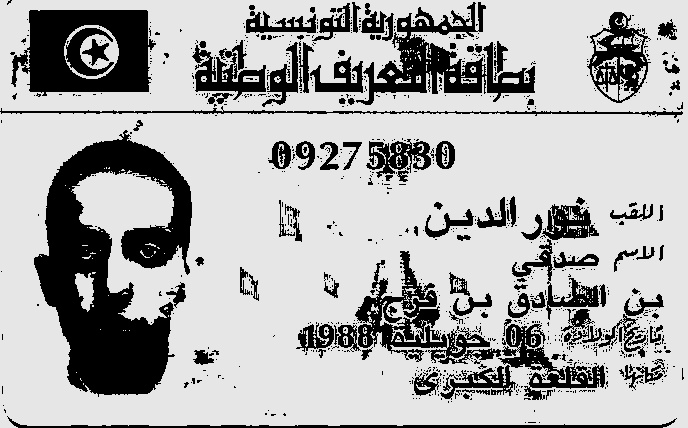
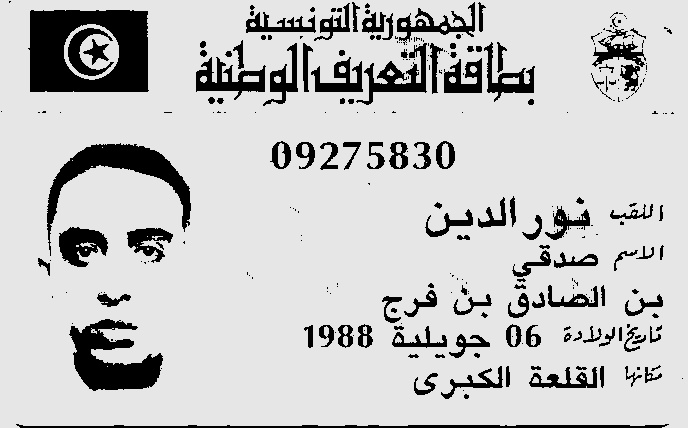
Contours of OCR improvements

diff --git a/OCR/server.py b/OCR/server.py
@@ -2,62 +2,89 @@ import cv2
 from PIL import Image
 from matplotlib import pyplot as plt
 import os
-
+import numpy as np
+from methods import display
 
 
 
 image_file = "C:\\Users\\Lenovo\\Desktop\\Code\\PAPERFREE-REPO\\OCR\\images\\nour.jpg"
 img = cv2.imread(image_file)
 
-def display(im_path):
-    dpi = 80
-    im_data = plt.imread(im_path)
-    if len(im_data.shape) == 3:
-        height, width, depth = im_data.shape
-    else:
-        height, width = im_data.shape
-        depth = 1  # Grayscale images have a single channel
 
-    # What size does the figure need to be in inches to fit the image?
-    figsize = width / float(dpi), height / float(dpi)
-
-    # Create a figure of the right size with one axes that takes up the full figure
-    fig = plt.figure(figsize=figsize)
-    ax = fig.add_axes([0, 0, 1, 1])
-
-    # Hide spines, ticks, etc.
-    ax.axis('off')
-
-    # Display the image.
-    ax.imshow(im_data, cmap='gray')
-
-    plt.show()
-
-
+# print("OpenCV version:", cv2.__version__)
 
 
 display(image_file)
 
 
-# INVERT THE IMAGE 
+# 1 INVERT THE IMAGE 
 inverted_image = cv2.bitwise_not(img)
 cv2.imwrite("C:\\Users\\Lenovo\\Desktop\\Code\\PAPERFREE-REPO\\OCR\\tempo\\invertedimage.jpg", inverted_image)
-display("C:\\Users\\Lenovo\\Desktop\\Code\\PAPERFREE-REPO\\OCR\\tempo\\invertedimage.jpg")
+# display("C:\\Users\\Lenovo\\Desktop\\Code\\PAPERFREE-REPO\\OCR\\tempo\\invertedimage.jpg")
 
-#BINARISATION 
+# 2 BINARISATION 
 def grayscale(image):
     return cv2.cvtColor(image, cv2.COLOR_BGR2GRAY )
 
 gray_image = grayscale(img)
 cv2.imwrite("C:\\Users\\Lenovo\\Desktop\\Code\\PAPERFREE-REPO\\OCR\\tempo\\grayedimage.jpg",gray_image)
 
-display("C:\\Users\\Lenovo\\Desktop\\Code\\PAPERFREE-REPO\\OCR\\tempo\\grayedimage.jpg")
+# display("C:\\Users\\Lenovo\\Desktop\\Code\\PAPERFREE-REPO\\OCR\\tempo\\grayedimage.jpg")
 
-thresh, im_bw = cv2.threshold(gray_image, 195 ,  230 , cv2.THRESH_BINARY)
+# Blurr 
+
+blur = cv2.GaussianBlur(gray_image,(7,7),0)
+cv2.imwrite("C:\\Users\\Lenovo\\Desktop\\Code\\PAPERFREE-REPO\\OCR\\tempo\\blur.jpg", blur)
+# display("C:\\Users\\Lenovo\\Desktop\\Code\\PAPERFREE-REPO\\OCR\\tempo\\blur.jpg")
+
+
+# THRESH
+
+thresh = cv2.threshold(blur,0,255,cv2.THRESH_BINARY_INV + cv2.THRESH_OTSU)[1]
+cv2.imwrite("C:\\Users\\Lenovo\\Desktop\\Code\\PAPERFREE-REPO\\OCR\\tempo\\tresh.jpg",thresh )
+# display("C:\\Users\\Lenovo\\Desktop\\Code\\PAPERFREE-REPO\\OCR\\tempo\\tresh.jpg")
+
+# KERNAL 
+
+kernal = cv2.getStructuringElement(cv2.MORPH_RECT,(3,13))
+cv2.imwrite("C:\\Users\\Lenovo\\Desktop\\Code\\PAPERFREE-REPO\\OCR\\tempo\\index_kernal.jpg",kernal)
+
+dilate = cv2.dilate(thresh,kernal, iterations=1  )
+cv2.imwrite("C:\\Users\\Lenovo\\Desktop\\Code\\PAPERFREE-REPO\\OCR\\tempo\\index_dilate.jpg", dilate)
+
+# display("C:\\Users\\Lenovo\\Desktop\\Code\\PAPERFREE-REPO\\OCR\\tempo\\index_dilate.jpg")
+
+
+# CONTOURS 
+
+
+contours, _ = cv2.findContours(dilate , cv2.RETR_EXTERNAL, cv2.CHAIN_APPROX_SIMPLE)
+min_contour_area = 500
+contours = [c for c in contours if cv2.contourArea(c) > min_contour_area]
+
+
+contours = sorted(contours, key=lambda x: cv2.boundingRect(x)[0])
+
+for c in contours : 
+    x,y,w,h = cv2.boundingRect(c)
+    aspect_ratio = w / float(h)
+    if aspect_ratio < 0.5 or aspect_ratio > 2:
+        continue
+    
+    cv2.rectangle(thresh,(x,y),(x+w , y+h),(36,255,12),2)
+cv2.imwrite("C:\\Users\\Lenovo\\Desktop\\Code\\PAPERFREE-REPO\\OCR\\tempo\\image_boxes.jpg", thresh)
+display("C:\\Users\\Lenovo\\Desktop\\Code\\PAPERFREE-REPO\\OCR\\tempo\\image_boxes.jpg")
+
+
+
+# IM_BW
+
+thresh, im_bw = cv2.threshold(gray_image, 150 ,  230 , cv2.THRESH_BINARY)
 cv2.imwrite("C:\\Users\\Lenovo\\Desktop\\Code\\PAPERFREE-REPO\\OCR\\tempo\\im_bw.jpg",im_bw )
 
 
-display("C:\\Users\\Lenovo\\Desktop\\Code\\PAPERFREE-REPO\\OCR\\tempo\\im_bw.jpg")
+
+# display("C:\\Users\\Lenovo\\Desktop\\Code\\PAPERFREE-REPO\\OCR\\tempo\\im_bw.jpg")
 
 
 
@@ -76,7 +103,7 @@ def noiseRemoval(image):
 no_noise = noiseRemoval(im_bw)
 cv2.imwrite("C:\\Users\\Lenovo\\Desktop\\Code\\PAPERFREE-REPO\\OCR\\tempo\\no_noise.jpg", no_noise)
 
-display("C:\\Users\\Lenovo\\Desktop\\Code\\PAPERFREE-REPO\\OCR\\tempo\\no_noise.jpg")
+# display("C:\\Users\\Lenovo\\Desktop\\Code\\PAPERFREE-REPO\\OCR\\tempo\\no_noise.jpg")
 
 
 #Dilation and Erosion 
@@ -188,7 +215,7 @@ def remove_borders(image):
 
 no_borders = remove_borders(no_noise)
 cv2.imwrite("C:\\Users\\Lenovo\\Desktop\\Code\\PAPERFREE-REPO\\OCR\\tempo\\no_borders.jpg", no_borders)
-display("C:\\Users\\Lenovo\\Desktop\\Code\\PAPERFREE-REPO\\OCR\\tempo\\no_borders.jpg")
+# display("C:\\Users\\Lenovo\\Desktop\\Code\\PAPERFREE-REPO\\OCR\\tempo\\no_borders.jpg")
 
 
 
@@ -198,7 +225,7 @@ color = [255, 255, 255]
 top, bottom, left, right = [150]*4
 image_with_border = cv2.copyMakeBorder(no_borders, top, bottom, left, right, cv2.BORDER_CONSTANT, value=color)
 cv2.imwrite("C:\\Users\\Lenovo\\Desktop\\Code\\PAPERFREE-REPO\\OCR\\tempo\\image_with_borders.jpg", image_with_border)
-display("C:\\Users\\Lenovo\\Desktop\\Code\\PAPERFREE-REPO\\OCR\\tempo\\image_with_borders.jpg")
+# display("C:\\Users\\Lenovo\\Desktop\\Code\\PAPERFREE-REPO\\OCR\\tempo\\image_with_borders.jpg")
 
 
 

diff --git a/OCR/methods.py b/OCR/methods.py
@@ -1,0 +1,34 @@
+from PIL import Image
+from matplotlib import pyplot as plt
+
+
+
+
+def display(im_path):
+    dpi = 80
+    im_data = plt.imread(im_path)
+    if len(im_data.shape) == 3:
+        height, width, depth = im_data.shape
+    else:
+        height, width = im_data.shape
+        depth = 1  # Grayscale images have a single channel
+
+    # What size does the figure need to be in inches to fit the image?
+    figsize = width / float(dpi), height / float(dpi)
+
+    # Create a figure of the right size with one axes that takes up the full figure
+    fig = plt.figure(figsize=figsize)
+    ax = fig.add_axes([0, 0, 1, 1])
+
+    # Hide spines, ticks, etc.
+    ax.axis('off')
+
+    # Display the image.
+    ax.imshow(im_data, cmap='gray')
+
+    plt.show()
+
+
+
+
+

diff --git a/OCR/readfiles.py b/OCR/readfiles.py
@@ -1,14 +1,17 @@
 from PIL import Image
 import pytesseract
 import cv2 
-# from server import display
+from methods import display
 from matplotlib import pyplot as plt
 import arabic_reshaper
 from bidi.algorithm import get_display
 
 
 
-Carte = "C:\\Users\\Lenovo\\Desktop\\Code\\PAPERFREE-REPO\\OCR\\tempo\\image_with_borders.jpg"
+
+Carte = "C:\\Users\\Lenovo\\Desktop\\Code\\PAPERFREE-REPO\\OCR\\images\\nour.jpg"
+
+
 
 
 
